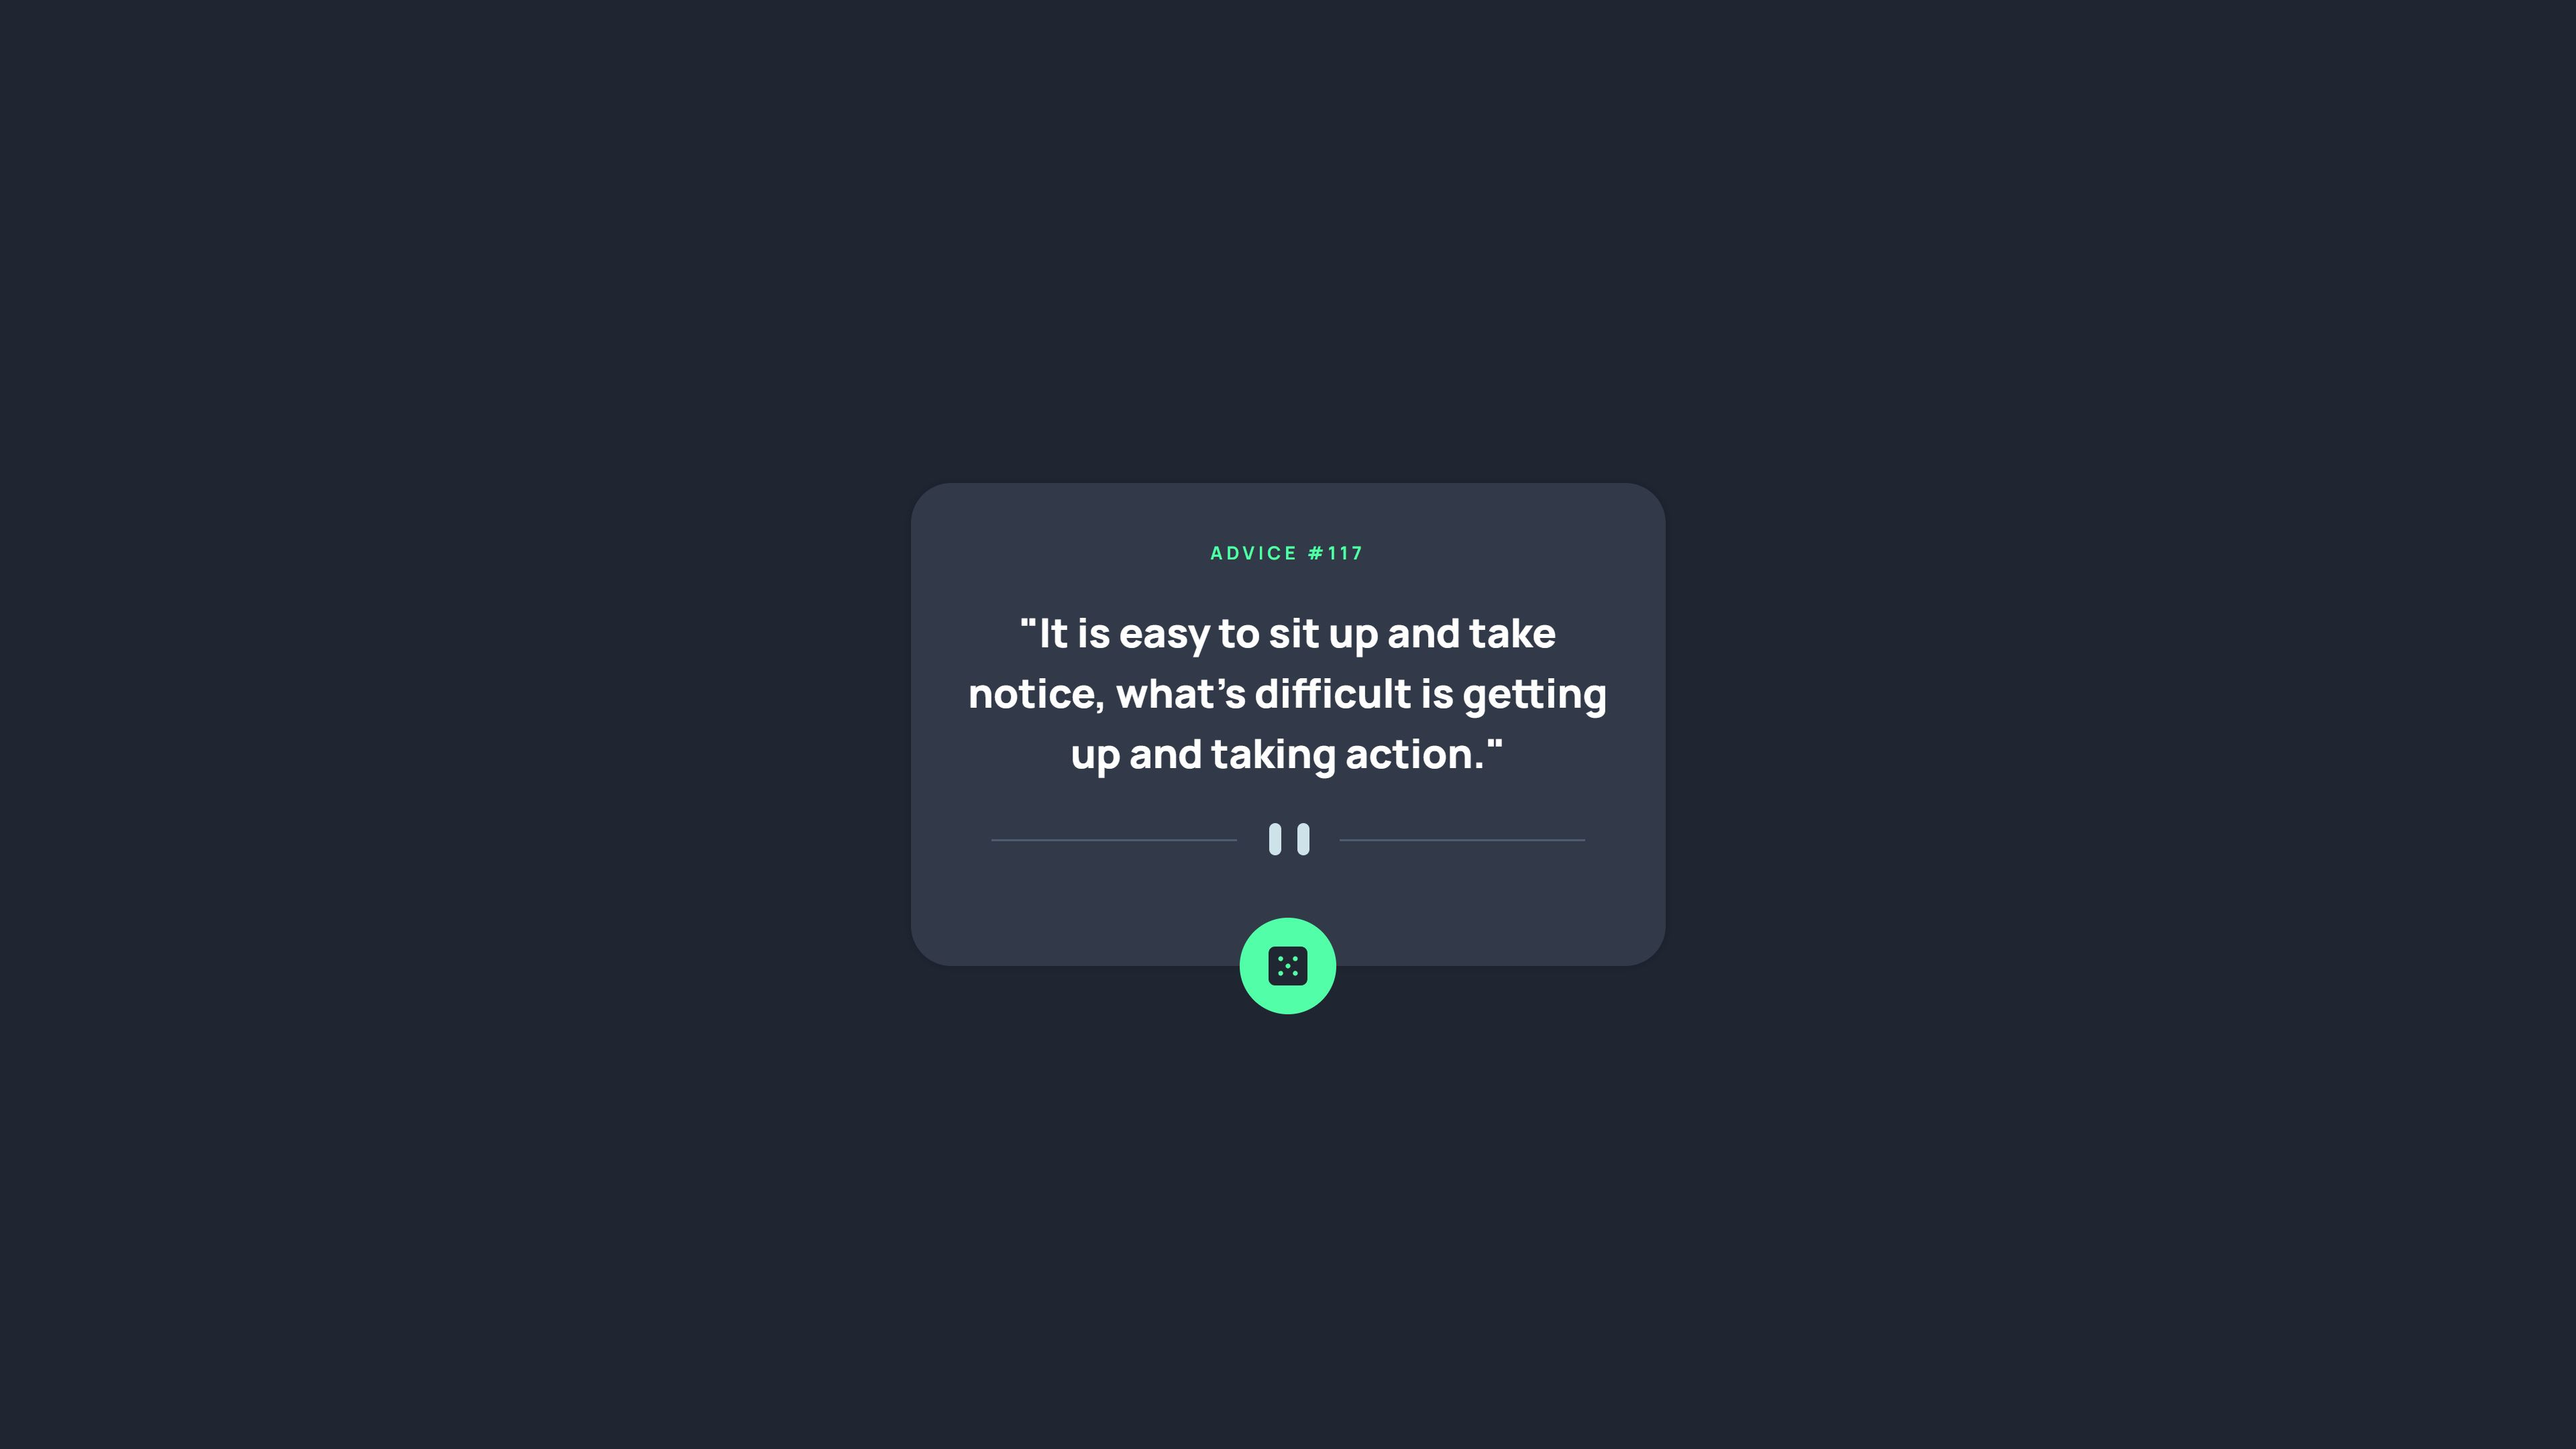
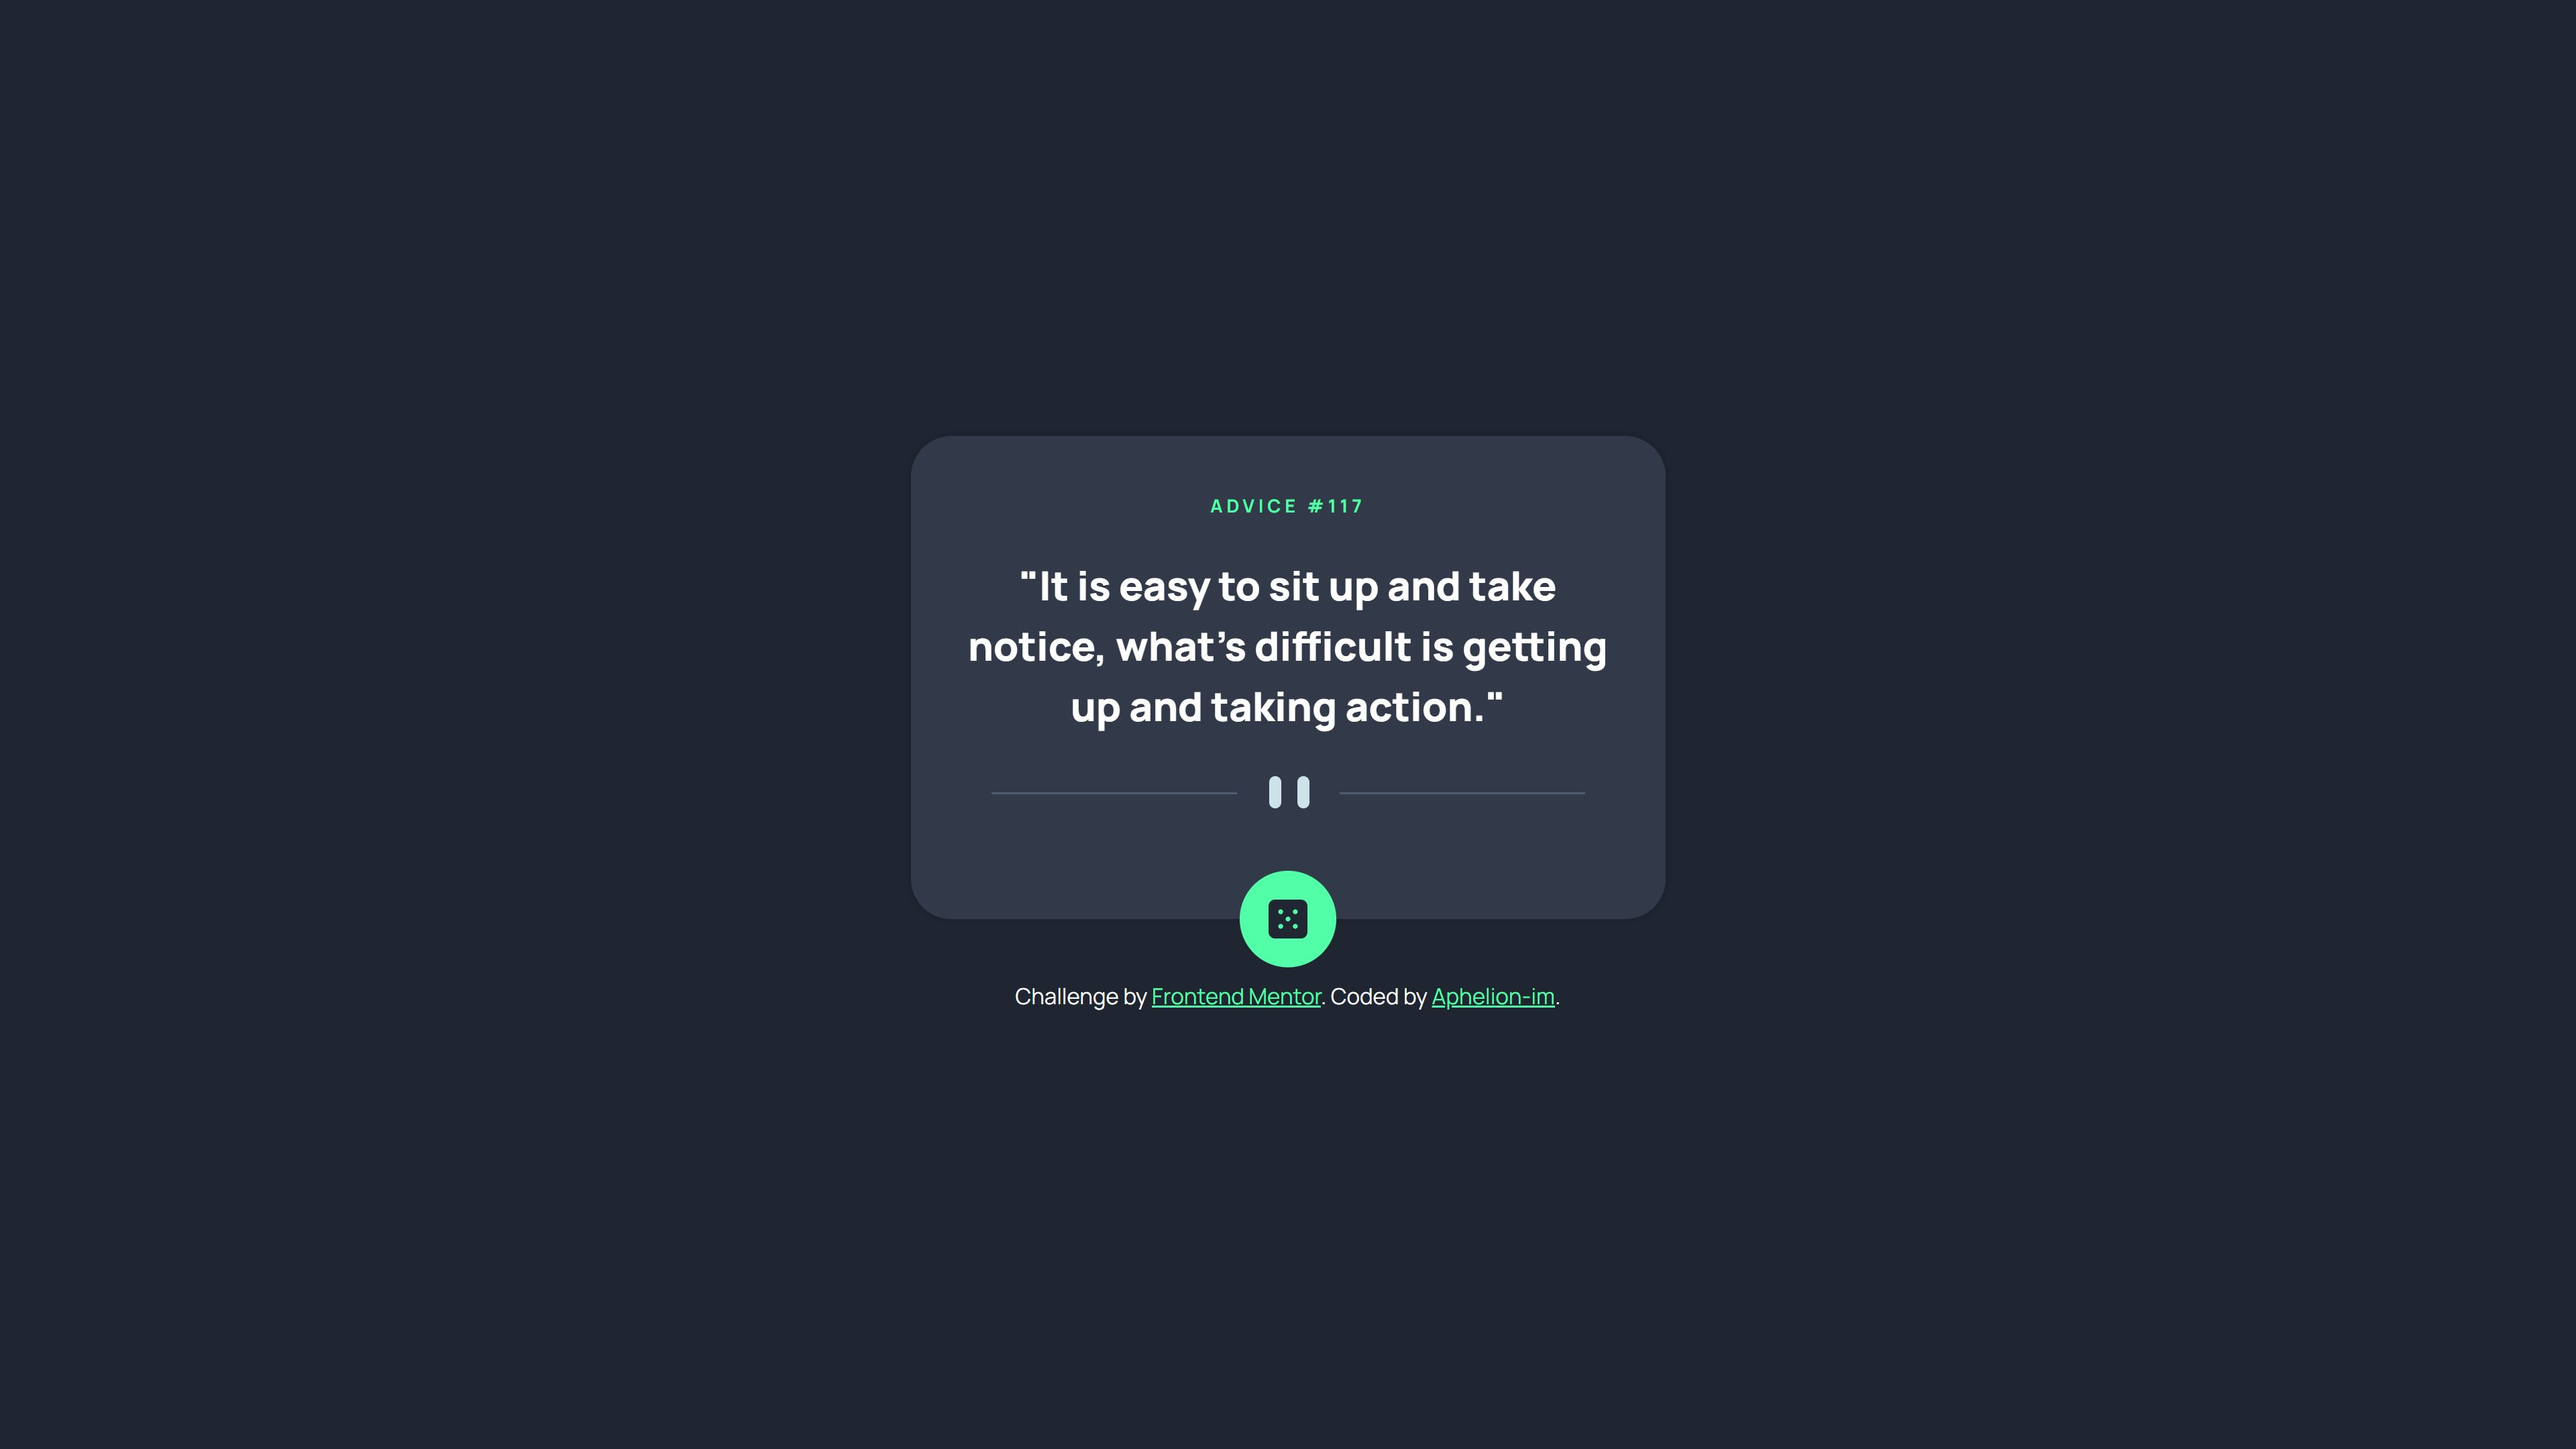
Added Netlify badge, screenshot, etc.

Changed region(s): [[0.375, 0.3102, 0.625, 0.7134]]

diff --git a/styles.scss b/styles.scss
@@ -55,8 +55,8 @@ h3 {
 }
 
 ::selection {
-  color: #fff;
-  background-color: red;
+  color: $clr-dark-grayish-blue;
+  background-color: $clr-neon-green;
 }
 
 html {
@@ -69,9 +69,9 @@ body {
   font-family: $ff-main;
   font-size: 1.6rem;
   background-color: $clr-dark-blue;
-  display: grid;
-  grid-template-columns: 1fr;
-  justify-items: center;
+  display: flex;
+  flex-direction: column;
+  justify-content: center;
   align-items: center;
   -webkit-font-smoothing: antialiased;
   line-height: 1.5;
@@ -101,6 +101,8 @@ button {
 .attribution {
   font-size: 11px;
   text-align: center;
+  margin-top: 3rem;
+  color: $clr-white;
 }
 
 .attribution a {

diff --git a/index.html b/index.html
@@ -19,6 +19,10 @@
         <img class="dice-icon" src="./assets/images/icon-dice.svg" alt="Icon of a dice">
     </div>
 </main>
+<footer class="attribution">
+    Challenge by <a href="https://www.frontendmentor.io?ref=challenge" target="_blank">Frontend Mentor</a>.
+    Coded by <a target="_blank" href="https://github.com/Aphelion-im">Aphelion-im</a>.
+</footer>
 <script src="https://cdnjs.cloudflare.com/ajax/libs/axios/1.6.2/axios.min.js"
         integrity="sha512-b94Z6431JyXY14iSXwgzeZurHHRNkLt9d6bAHt7BZT38eqV+GyngIi/tVye4jBKPYQ2lBdRs0glww4fmpuLRwA=="
         crossorigin="anonymous" referrerpolicy="no-referrer"></script>

diff --git a/README.md b/README.md
@@ -1,4 +1,4 @@
-
+[![Netlify Status](https://api.netlify.com/api/v1/badges/905b290c-a526-4ff6-9fa3-d24b55cffe99/deploy-status)](https://app.netlify.com/sites/aphelion-advice-generator-app/deploys)
 # Frontend Mentor - Advice generator app solution
 
 This is a solution to the [Advice generator app challenge on Frontend Mentor](https://www.frontendmentor.io/challenges/advice-generator-app-QdUG-13db). Frontend Mentor challenges help you improve your coding skills by building realistic projects.
@@ -34,8 +34,8 @@ Users should be able to:
 
 ### Links
 
-- Solution URL: [Add solution URL here](https://your-solution-url.com)
-- Live Site URL: [Add live site URL here](https://your-live-site-url.com)
+- Solution URL: [Github repo](https://github.com/Aphelion-im/Advice-generator-app)
+- Live Site URL: [Advice generator app](https://aphelion-advice-generator-app.netlify.app)
 
 ## My process
 
